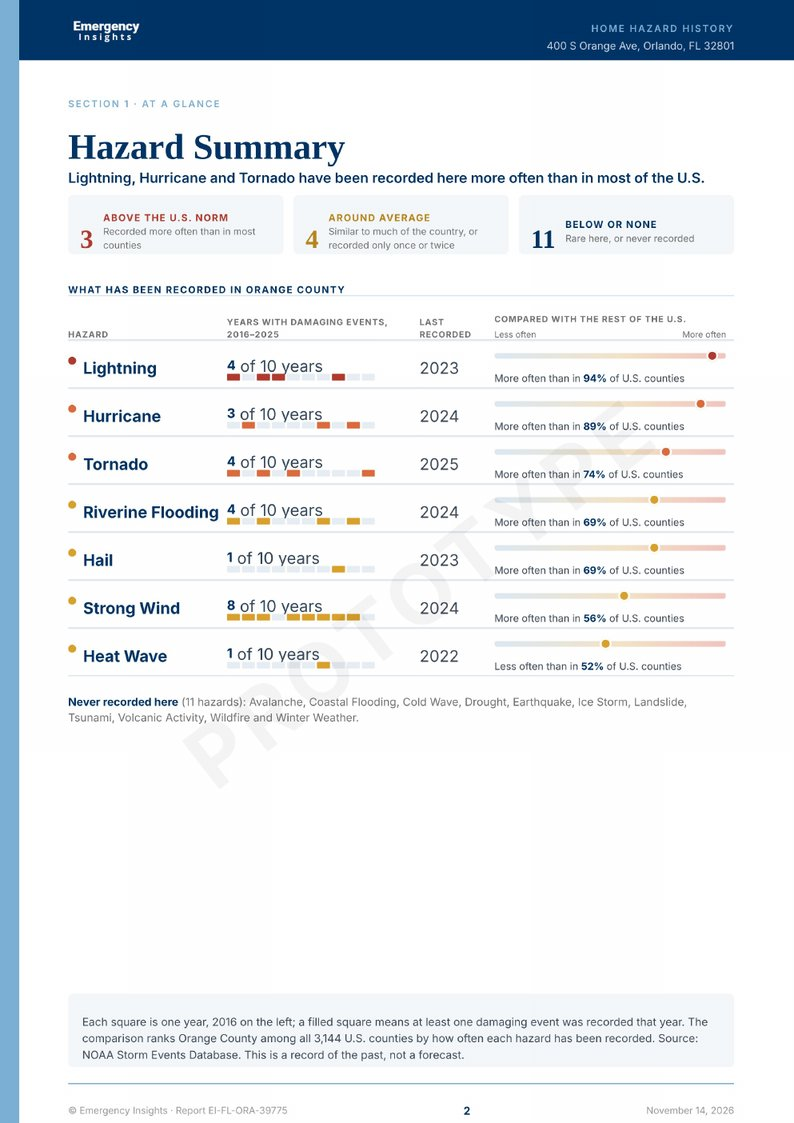
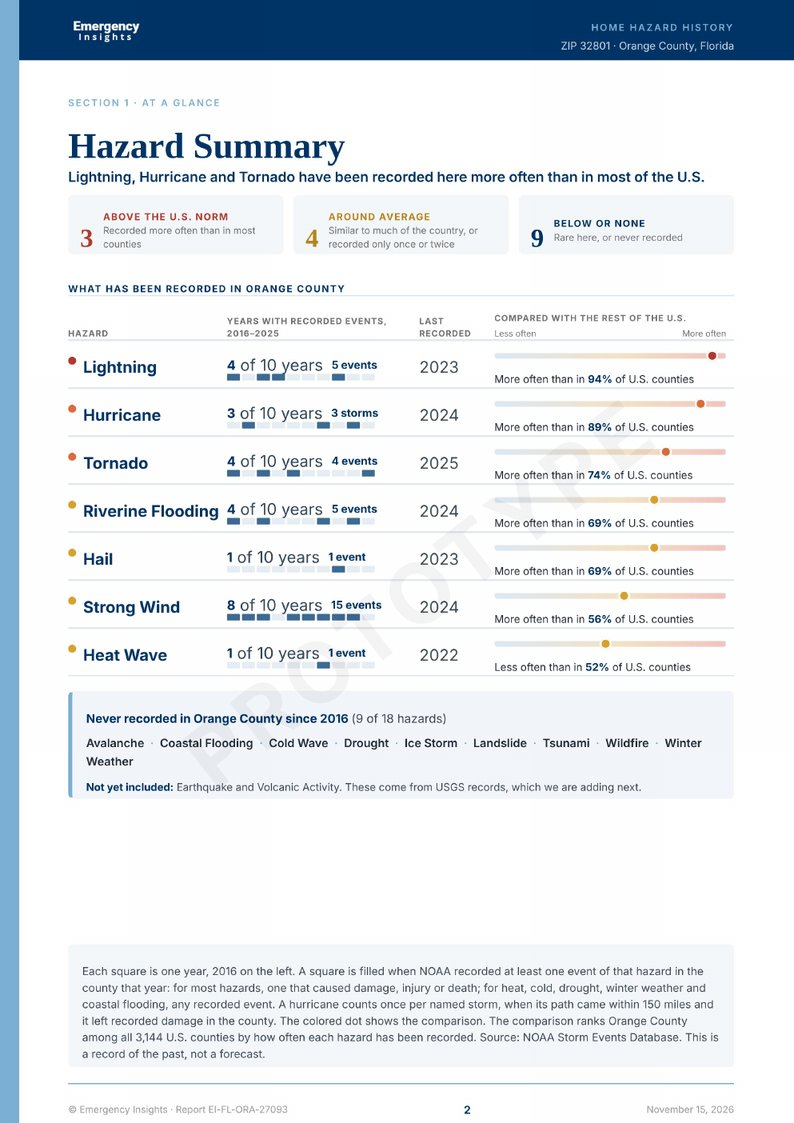
Two hazards per page, area summary in the preview, click-to-zoom pages, team photos, placeholder prices
Claude-Session: https://claude.ai/code/session_01FcMM3Sz8onKL1qbUcGDpZf

diff --git a/deploy/ei/index.html b/deploy/ei/index.html
@@ -152,6 +152,27 @@ td:first-child { color: var(--ink); font-weight: 600; }
 .addr-grid input, .addr-grid select { height: 50px; width: 100%; border: 1.5px solid #c3d3e1; border-radius: 10px; padding: 0 12px; font: inherit; font-size: 16px; color: var(--ink); background: var(--white); }
 .addr-grid input:focus, .addr-grid select:focus { outline: 3px solid rgba(0,51,102,0.25); border-color: var(--navy); }
 @media (max-width: 720px) { .addr-grid { grid-template-columns: 1fr 1fr; } .addr-grid .street { grid-column: 1 / -1; } .place-grid .f:last-child { grid-column: 1 / -1; } }
+.area-stats { display: grid; grid-template-columns: repeat(3, 1fr); gap: 12px; margin-top: 20px; }
+.area-stats div { background: var(--mist); border-radius: 10px; padding: 14px 16px; }
+.area-stats b { display: block; font-family: var(--display); font-size: 34px; color: var(--navy); line-height: 1.1; }
+.area-stats span { font-size: 14px; color: var(--body); }
+.area-never { margin-top: 18px; padding: 14px 16px; border-left: 4px solid var(--steel); background: #f6f9fc; border-radius: 0 10px 10px 0; }
+.area-never h3 { font-size: 16px; color: var(--navy); margin: 0 0 8px; }
+.area-never .chips { display: flex; flex-wrap: wrap; gap: 6px; }
+.area-never .chips span { font-size: 14px; font-weight: 600; color: var(--ink); background: var(--white); border: 1px solid var(--line); border-radius: 999px; padding: 3px 11px; }
+#flow-latest { margin-top: 14px; }
+.area-cta { margin-top: 22px; padding-top: 20px; border-top: 1px solid var(--line); display: flex; flex-direction: column; gap: 8px; }
+@media (max-width: 600px) { .area-stats { grid-template-columns: 1fr; } }
+/* click to zoom */
+.zoomable { cursor: zoom-in; }
+.zbox { position: fixed; inset: 0; z-index: 200; background: rgba(5, 20, 38, 0.92); display: flex; flex-direction: column; }
+.zbox-bar { display: flex; justify-content: space-between; align-items: center; gap: 12px; padding: 10px 16px; color: #fff; font-size: 15px; }
+.zbox-bar button { background: rgba(255,255,255,0.12); color: #fff; border: 0; border-radius: 8px; min-width: 44px; height: 44px; font: inherit; font-size: 18px; cursor: pointer; }
+.zbox-bar button:hover { background: rgba(255,255,255,0.22); }
+.zbox-stage { flex: 1; overflow: auto; display: flex; justify-content: center; align-items: flex-start; padding: 0 16px 24px; }
+.zbox-stage img { width: min(900px, 100%); height: auto; background: #fff; box-shadow: 0 10px 40px rgba(0,0,0,0.5); cursor: zoom-out; }
+.zbox-stage img.big { width: min(1600px, 220%); max-width: none; }
+.zbox-page { background: #fff; box-shadow: 0 10px 40px rgba(0,0,0,0.5); transform-origin: top left; }
 .proto-bar { background: #fff6e5; color: #5a4210; font-size: 14px; padding: 8px 0; border-bottom: 1px solid #f0dfbd; }
 .notice { background: #fff6e5; color: #5a4210; border-radius: 10px; padding: 14px 16px; font-size: 15px; }
 
@@ -177,6 +198,10 @@ td:first-child { color: var(--ink); font-weight: 600; }
 
 /* Team */
 .person { display: flex; flex-direction: column; gap: 6px; }
+.team4 { display: grid; grid-template-columns: repeat(4, 1fr); gap: 24px; }
+@media (max-width: 900px) { .team4 { grid-template-columns: repeat(2, 1fr); } }
+.avatar img { width: 100%; height: 100%; object-fit: cover; border-radius: 50%; }
+.avatar:has(img) { border: 0; overflow: hidden; }
 .avatar { width: 96px; height: 96px; border-radius: 50%; background: var(--mist); border: 1px dashed #b9cad9; display: flex; align-items: center; justify-content: center; font-size: 13px; color: var(--muted); margin-bottom: 8px; }
 
 /* Contact */
@@ -325,6 +350,10 @@ td:first-child { color: var(--ink); font-weight: 600; }
 .rp-ins { display: flex; gap: 14px; margin-top: 18px; padding: 14px 16px; background: #003366; color: #fff; border-radius: 5px; }
 .rp-ins .l { font-size: 9.5px; font-weight: 700; color: #7BAFD4; text-transform: uppercase; letter-spacing: 0.12em; white-space: nowrap; padding-top: 1px; }
 .rp-ins .t { font-size: 11.5px; line-height: 1.5; color: rgba(255,255,255,0.9); }
+.rp-block { display: flex; flex-direction: column; height: 468px; overflow: hidden; }
+.rp-block .rp-eyebrow { margin-bottom: 2px; }
+.rp-divide { border-top: 1px dashed #C9D7E4; margin: 4px 0 14px; }
+.rp-rule { font-size: 9.5px; color: #707070; margin-top: 8px; }
 .rp-bottomnote { font-size: 9.5px; color: #707070; line-height: 1.45; margin-top: auto; padding-top: 14px; margin-bottom: 14px; }
 .rp-ul { margin: 0; padding-left: 16px; font-size: 11.5px; color: #2B3B4C; line-height: 1.6; }
 .rp-tbl { width: 100%; border-collapse: collapse; min-width: 0; }
@@ -700,15 +729,24 @@ td:first-child { color: var(--ink); font-weight: 600; }
 
       <div id="flow-preview" class="stack-lg" hidden>
         <div class="row" style="justify-content: space-between;">
-          <h1 class="h2">Is this the right home?</h1>
+          <h1 class="h2">Is this the right area?</h1>
           <a href="#report" class="js-restart" style="font-weight: 600;">Change area</a>
         </div>
         <p class="notice" id="flow-notice">You searched for <b id="searched">your address</b>.</p>
-        <div class="split" style="align-items: stretch;">
+        <div class="split" style="align-items: flex-start;">
           <div class="panel" style="flex: 999 1 480px;">
-            <div class="map"><div><div class="pin"></div><p class="small">Satellite view of the property</p></div></div>
-            <div class="row" style="justify-content: space-between; margin-top: 8px;">
-              <div><p style="font-family: var(--head); font-size: 26px; font-weight: 800; letter-spacing: -0.02em; color: var(--ink);" id="flow-place">1250 Example Lane</p><p class="small" id="flow-sub">Orlando, FL 32817 · Orange County</p></div>
+            <p class="eyebrow">Your area</p>
+            <p style="font-family: var(--display); font-size: 32px; font-weight: 700; color: var(--navy); line-height: 1.1;" id="flow-place">ZIP code</p>
+            <p class="small" id="flow-sub" style="margin-top: 4px;">County, State</p>
+            <div class="area-stats" id="flow-stats"></div>
+            <div id="flow-never"></div>
+            <p class="small" id="flow-latest"></p>
+            <div class="area-cta">
+              <h2 class="h3" style="font-size: 22px;">Your full report</h2>
+              <p id="aud-line">Includes a <b>Know Before You Buy</b> page with a before-you-sign checklist.</p>
+              <div class="row" style="margin-top: 6px;"><button class="btn btn-primary" type="button" id="flow-pdf">Download the PDF report</button><a class="btn btn-outline js-waitlist" href="#contact">Join the waitlist</a></div>
+              <p class="small">Free while we test the prototype.</p>
+              <p class="small" id="flow-pdf-status" aria-live="polite"></p>
             </div>
           </div>
           <div class="preview" style="flex: 1 1 340px;">
@@ -718,20 +756,6 @@ td:first-child { color: var(--ink); font-weight: 600; }
             <p style="color: var(--on-navy);">The full report adds every hazard's history, when each one tends to hit, the major storms on record and a checklist.</p>
             <p class="small" style="color: var(--on-navy-muted);" id="flow-foot">Real NOAA records, ranked against every U.S. county.</p>
           </div>
-        </div>
-        <div class="panel mist" style="border: 0;">
-          <div class="split" style="align-items: center;">
-            <div class="stack">
-              <h2 class="h3" style="font-size: 24px;">Your full report</h2>
-              <p id="aud-line">Includes a <b>Know Before You Buy</b> page with a before-you-sign checklist.</p>
-              <p class="small">Free while we test the prototype.</p>
-            </div>
-            <div class="stack">
-              <button class="btn btn-primary" type="button" id="flow-pdf">Download the PDF report</button>
-              <a class="btn btn-outline js-waitlist" href="#contact">Join the waitlist</a>
-            </div>
-          </div>
-          <p class="small" id="flow-pdf-status" aria-live="polite" style="margin-top: 10px;"></p>
         </div>
         <div class="stack">
           <h2 class="h3" style="font-size: 24px;">Preview every page</h2>
@@ -749,16 +773,15 @@ td:first-child { color: var(--ink); font-weight: 600; }
       <div class="stack">
         <p class="eyebrow">Sample report</p>
         <h1 class="h2">Every page of a real report.</h1>
-        <p class="lead">This is the real report for Orlando City Hall (400 S Orange Ave), built from NOAA records for Orange County, 2016–2025.</p>
+        <p class="lead">This is the real report for ZIP code 32801 (downtown Orlando), built from NOAA and FEMA records for Orange County, 2016–2025. Click any page to enlarge it.</p>
       </div>
       <div class="pages">
         <figure><img class="shot" src="img/page1.jpg" alt="Cover page"><figcaption><b>1 · Cover</b>The address, report date and data sources.</figcaption></figure>
         <figure><img class="shot" src="img/page2.jpg" alt="Hazard summary page"><figcaption><b>2 · Hazard summary</b>All 18 hazards: how often each was recorded, and how that compares with the rest of the U.S.</figcaption></figure>
-        <figure><img class="shot" src="img/page3.jpg" alt="Property page"><figcaption><b>3 · This property</b>Flood zone, flood claims nearby, storms on record and a checklist.</figcaption></figure>
-        <figure><img class="shot" src="img/page4.jpg" alt="Lightning detail page"><figcaption><b>4 · Lightning</b>How often it was recorded, when it tends to hit, and what insurance usually covers.</figcaption></figure>
-        <figure><img class="shot" src="img/page5.jpg" alt="Hurricane detail page"><figcaption><b>5 · Hurricane</b>One page for each hazard that stands out, with the named storms.</figcaption></figure>
-        <figure><img class="shot" src="img/page6.jpg" alt="Tornado detail page"><figcaption><b>6 · Tornado</b>Same layout, so every hazard reads the same way.</figcaption></figure>
-        <figure><img class="shot" src="img/page7.jpg" alt="How this report works page"><figcaption><b>7 · How this report works</b>How each hazard is compared, data sources and limits.</figcaption></figure>
+        <figure><img class="shot" src="img/page3.jpg" alt="Property page"><figcaption><b>3 · This area</b>Federally declared disasters, major storms on record and a checklist.</figcaption></figure>
+        <figure><img class="shot" src="img/page4.jpg" alt="Hazard detail page for lightning and hurricane"><figcaption><b>4 · Lightning and Hurricane</b>Two hazards per page: how often each was recorded, when it tends to hit, named storms and insurance.</figcaption></figure>
+        <figure><img class="shot" src="img/page5.jpg" alt="Hazard detail page for tornado and other recorded hazards"><figcaption><b>5 · Tornado and other hazards</b>Same layout for every hazard that stands out, then the rest of what was recorded.</figcaption></figure>
+        <figure><img class="shot" src="img/page6.jpg" alt="How this report works page"><figcaption><b>6 · How this report works</b>How each hazard is compared, data sources and limits.</figcaption></figure>
       </div>
     </div>
   </div>
@@ -820,15 +843,16 @@ td:first-child { color: var(--ink); font-weight: 600; }
       <div class="grid2">
         <div class="panel">
           <h2 class="h3">Single report</h2>
-          <p class="price">[YOUR PRICE]</p>
+          <p class="price">$19</p>
           <p>One address, full PDF, yours to share with the client.</p>
         </div>
         <div class="panel" style="box-shadow: inset 0 0 0 2px var(--navy);">
           <h2 class="h3">Professional</h2>
-          <p class="price">[YOUR PRICE] <small>/ month</small></p>
-          <p>Reports for every client, branded with your business.</p>
+          <p class="price">$49 <small>/ month</small></p>
+          <p>Up to 25 reports a month, branded with your business.</p>
         </div>
       </div>
+      <p class="small">Prices are placeholders while we test the prototype.</p>
       <div class="row"><a class="btn btn-primary js-waitlist" href="#contact">Join the waitlist</a><a class="btn btn-outline" href="#contact">Talk to us</a></div>
     </div>
   </div>
@@ -852,10 +876,11 @@ td:first-child { color: var(--ink); font-weight: 600; }
   <div class="band pad">
     <div class="wrap stack-lg">
       <h2 class="h2">The team</h2>
-      <div class="grid3">
-        <div class="person"><div class="avatar">[PHOTO]</div><h3 class="h3">Javier Rocha</h3><p class="small">Co-founder · website and reports</p><p>[ONE LINE ABOUT YOU]</p></div>
-        <div class="person"><div class="avatar">[PHOTO]</div><h3 class="h3">[NAME]</h3><p class="small">[ROLE]</p><p>[ONE LINE]</p></div>
-        <div class="person"><div class="avatar">[PHOTO]</div><h3 class="h3">[NAME]</h3><p class="small">[ROLE]</p><p>[ONE LINE]</p></div>
+      <div class="team4">
+        <div class="person"><div class="avatar"><img src="img/ArefA.jpg" alt="Aref Abdala"></div><h3 class="h3">Aref Abdala</h3><p class="small">Technical Lead & Data Specialist</p></div>
+        <div class="person"><div class="avatar"><img src="img/SoniaA.jpg" alt="Sonia Alvarez"></div><h3 class="h3">Sonia Alvarez</h3><p class="small">Management & Communication Lead</p></div>
+        <div class="person"><div class="avatar"><img src="img/JavierA.jpg" alt="Javier Arocha"></div><h3 class="h3">Javier Arocha</h3><p class="small">Website Development & Data Delivery Lead</p></div>
+        <div class="person"><div class="avatar"><img src="img/JulioW.jpg" alt="Julio Wall"></div><h3 class="h3">Julio Wall</h3><p class="small">Administration & Operations Lead</p></div>
       </div>
     </div>
   </div>

diff --git a/deploy/ei/lab.js b/deploy/ei/lab.js
@@ -374,23 +374,42 @@
       <div class="rp-label">${esc(d.page3.checklist_title)}</div><div class="rp-checks">${checks}</div></div>` + footer(d, 3));
   }
 
-  function pageDetail(d, h, i, n, pageNum) {
+  // One hazard, sized to fill half a page; two per page keeps the report compact
+  function detailBlock(d, h, i, n) {
     const ys = Object.keys(h.events_by_year), vs = ys.map(y => h.events_by_year[y]);
-    const yearly = barChart(ys, vs, 300, 95, { labelPeaksOnly: ys.length > 12, tick: (k, y) => ys.length > 12 ? (Number(y) % 5 === 0 || k === 0 || k === ys.length - 1) : true });
-    const monthly = barChart(MONTHS, h.events_by_month, 300, 95, { tick: () => true });
+    const yearly = barChart(ys, vs, 300, 78, { labelPeaksOnly: ys.length > 12, tick: (k, y) => ys.length > 12 ? (Number(y) % 5 === 0 || k === 0 || k === ys.length - 1) : true });
+    const monthly = barChart(MONTHS, h.events_by_month, 300, 78, { tick: () => true });
     const det = DETAIL[h.id] || { what: '[Detail text for this hazard is not written yet.]', ins: 'Confirm coverage for this hazard with a licensed agent.' };
-    const storms = d.storms.filter(s => s.hazards.includes(h.name));
+    const storms = d.storms.filter(s => s.hazards.includes(h.name)).slice(0, 3);
     const color = tierColor(h.tier_key);
-    return shell(header(d) + `<div class="rp-body"><div class="rp-eyebrow">Section 2 · Hazard detail ${i} of ${n}</div>
-      <div class="rp-titlerow"><h1 class="rp-h1" style="font-size:42px;">${h.name}</h1><div class="rp-rating"><div class="tr" style="color:${color}">${h.tier}</div><div class="sc">${h.rank_line}</div></div></div>
-      <p class="rp-lead">${esc(det.what)}</p>
-      <div class="rp-facts" style="--b:${color}"><div class="rp-fact"><div class="l">Compared with the U.S.</div><div class="v">${h.rank_line}</div></div><div class="rp-fact"><div class="l">History</div><div class="v">${h.history_line}</div></div><div class="rp-fact"><div class="l">Peak season</div><div class="v">${h.season}</div></div><div class="rp-fact"><div class="l">Severity</div><div class="v">${h.severity_line}</div></div></div>
-      <div class="rp-label">What has happened in ${esc(d.property.county)}</div>
-      <div class="rp-charts"><div class="rp-chart"><div class="rp-chart-t">${h.events_total} recorded ${unitOf(h.id, h.events_total)}, ${ys[0]}–${ys[ys.length - 1]}</div><div class="rp-chart-s">Events per year</div>${yearly}</div><div class="rp-chart"><div class="rp-chart-t">Most events fall in ${h.season.split(' (')[0]}</div><div class="rp-chart-s">Events by month, all years combined</div>${monthly}</div></div>
-      ${storms.length ? `<div class="rp-label">Named storms on record</div><table class="rp-events">${storms.map(s => `<tr><td>${s.date}</td><td class="n">${s.name}</td><td>${s.summary}</td></tr>`).join('')}</table>` : ''}
-      <div class="rp-ins"><div class="l">Insurance</div><div class="t">${esc(det.ins)}</div></div>
+    return `<div class="rp-block"><div class="rp-eyebrow">Hazard detail ${i} of ${n}</div>
+      <div class="rp-titlerow"><h2 class="rp-h1" style="font-size:30px;">${h.name}</h2><div class="rp-rating"><div class="tr" style="color:${color};font-size:24px;">${h.tier}</div><div class="sc">${h.rank_line}</div></div></div>
+      <p class="rp-lead" style="font-size:12.5px;margin-top:6px;">${esc(det.what)}</p>
+      <div class="rp-facts" style="--b:${color};margin-top:10px;"><div class="rp-fact"><div class="l">Compared with the U.S.</div><div class="v">${h.rank_line}</div></div><div class="rp-fact"><div class="l">History</div><div class="v">${h.history_line}</div></div><div class="rp-fact"><div class="l">Peak season</div><div class="v">${h.season}</div></div><div class="rp-fact"><div class="l">Severity</div><div class="v">${h.severity_line}</div></div></div>
+      <div class="rp-charts" style="margin-top:12px;"><div class="rp-chart"><div class="rp-chart-t">${h.events_total} recorded ${unitOf(h.id, h.events_total)}, ${ys[0]}–${ys[ys.length - 1]}</div><div class="rp-chart-s">Per year in ${esc(d.property.county)}</div>${yearly}</div><div class="rp-chart"><div class="rp-chart-t">Most fall in ${h.season.split(' (')[0]}</div><div class="rp-chart-s">By month, all years combined</div>${monthly}</div></div>
+      ${storms.length ? `<table class="rp-events" style="margin-top:8px;">${storms.map(s => `<tr><td>${s.date}</td><td class="n">${s.name}</td><td>${s.summary}</td></tr>`).join('')}</table>` : ''}
+      <div class="rp-ins" style="margin-top:10px;padding:10px 14px;"><div class="l">Insurance</div><div class="t">${esc(det.ins)}</div></div>
+      <p class="rp-rule">${countRule(h.id, esc(d.property.county))}.</p></div>`;
+  }
+  // The rest of the recorded hazards, for a half page that would otherwise stay empty
+  function otherBlock(d) {
+    const others = d.hazards.filter(h => h.group !== 'above' && !h.not_included && h.years_with_event > 0);
+    if (!others.length) return '';
+    const last = Number(Object.keys(d.hazards[0].events_by_year).slice(-1)[0]);
+    const rows = others.slice(0, 8).map(h => {
+      const yrs = []; for (let y = last - h.window_years + 1; y <= last; y++) yrs.push(y);
+      const sq = 10;
+      const strip = `<svg width="${yrs.length * 12 - 2}" height="7" style="display:block">` + yrs.map((y, k) => `<rect x="${k * 12}" width="${sq}" height="7" rx="1" fill="${(h.events_by_year[y] || 0) > 0 ? '#3D6A93' : '#E6EDF3'}"/>`).join('') + `</svg>`;
+      return `<tr><td class="hz"><span class="dot" style="background:${tierColor(h.tier_key)}"></span>${h.name}</td><td class="yr"><div><b>${h.years_with_event}</b> of ${h.window_years} years <span class="ev">${h.events_total} ${unitOf(h.id, h.events_total)}</span></div></td><td class="cm"><div class="t">${h.percentile >= 50 ? `More often than in <b>${h.percentile}%</b> of U.S. counties` : `Less often than in <b>${100 - h.percentile}%</b> of U.S. counties`}</div><div class="t">Peak: ${h.season.split(' (')[0]}</div></td></tr>`;
+    }).join('');
+    return `<div class="rp-block"><div class="rp-eyebrow">Also recorded here</div><h2 class="rp-h1" style="font-size:26px;">Other hazards on record</h2>
+      <p class="rp-lead" style="font-size:12.5px;margin-top:6px;">These were recorded in ${esc(d.property.county)} but not more often than in most of the country. Their full history is summarized on page 2.</p>
+      <table class="rp-sum" style="margin-top:10px;"><tbody>${rows}</tbody></table></div>`;
+  }
+  function pageDetails(d, blocks, pageNum) {
+    return shell(header(d) + `<div class="rp-body"><div class="rp-eyebrow" style="margin-bottom:6px;">Section 2 · Hazards that stand out</div>${blocks.join('<div class="rp-divide"></div>')}
       <p class="rp-bottomnote">${d.report.real_data
-        ? `Source: NOAA Storm Events Database, ${FIRST_YEAR}–${END_YEAR}${h.id === 'hurricane' ? ', matched to NOAA hurricane tracks' : ''}. ${countRule(h.id, esc(d.property.county))}. Prototype: methods are still being refined. This describes the past and is not a forecast.`
+        ? `Source: NOAA Storm Events Database, ${FIRST_YEAR}–${END_YEAR}; hurricanes matched to NOAA hurricane tracks (IBTrACS). Prototype: methods are still being refined. This describes the past and is not a forecast.`
         : `Events are made-up sample data for testing the layout. In the real report they come from NOAA's Storm Events Database for ${esc(d.property.county)}, ${FIRST_YEAR}–${END_YEAR}. This describes the past and is not a forecast.`}</p></div>` + footer(d, pageNum));
   }
 
@@ -409,8 +428,10 @@
   function stepTemplates(d) {
     const pages = [pageCover(d), pageSummary(d), pageProperty(d)];
     const det = d.hazards.filter(h => d.detail_pages.includes(h.id));
-    det.forEach((h, i) => pages.push(pageDetail(d, h, i + 1, det.length, 4 + i)));
-    pages.push(pageClosing(d, 4 + det.length));
+    const blocks = det.map((h, i) => detailBlock(d, h, i + 1, det.length));
+    if (blocks.length % 2 === 1 || !blocks.length) { const o = otherBlock(d); if (o) blocks.push(o); }
+    for (let k = 0; k < blocks.length; k += 2) pages.push(pageDetails(d, blocks.slice(k, k + 2), pages.length + 1));
+    pages.push(pageClosing(d, pages.length + 1));
     return pages;
   }
 

diff --git a/deploy/ei/site.js b/deploy/ei/site.js
@@ -79,6 +79,18 @@
       ? `You searched for ZIP code <b>${esc2(loc.zip_area)}</b> in ${esc2(loc.state_name)}. This report covers <b>${esc2(loc.county)}</b>.${loc.zip_note ? esc2(loc.zip_note) : ''}`
       : `This report covers <b>${esc2(loc.county)}</b>, ${esc2(loc.state_name)}.`;
     document.getElementById('flow-place').textContent = loc.zip_area ? `ZIP code ${loc.zip_area}` : loc.county;
+    // area summary on the left
+    const decl = data.declarations || [];
+    const nAbove = data.hazards.filter(h => h.group === 'above').length;
+    document.getElementById('flow-stats').innerHTML =
+      `<div><b>${nAbove}</b><span>hazard${nAbove === 1 ? '' : 's'} recorded more often than in most of the U.S.</span></div>` +
+      `<div><b>${decl.length}</b><span>federal disaster declaration${decl.length === 1 ? '' : 's'} since 2016</span></div>` +
+      `<div><b>${data.storms.length}</b><span>named storm${data.storms.length === 1 ? '' : 's'} with recorded damage since 2016</span></div>`;
+    const never = data.hazards.filter(h => !h.not_included && h.years_with_event === 0);
+    document.getElementById('flow-never').innerHTML = never.length
+      ? `<div class="area-never"><h3>Never recorded here since 2016 (${never.length} of ${data.hazards.length})</h3><div class="chips">${never.map(h => `<span>${esc2(h.name)}</span>`).join('')}</div></div>` : '';
+    document.getElementById('flow-latest').innerHTML = decl.length
+      ? `Most recent federal declaration: <b>${esc2(decl[0].title)}</b>, ${new Date(decl[0].date + 'T12:00:00').toLocaleDateString('en-US', { month: 'long', year: 'numeric' })} (${esc2(decl[0].code)}).` : '';
     document.getElementById('flow-sub').textContent = `${loc.county}, ${loc.state_name}`;
     const above = data.hazards.filter(h => h.group === 'above');
     document.getElementById('flow-head').textContent = above.length
@@ -86,7 +98,7 @@
       : 'No hazard stands out in this area';
     const list = (above.length ? above : data.hazards.filter(h => !h.not_included && h.years_with_event > 0).slice(0, 3)).slice(0, 5);
     document.getElementById('flow-items').innerHTML = list.map(h =>
-      `<div class="item"><b>${esc2(h.name)}</b><span style="text-align: right;"><span style="font-weight: 700;">${h.years_with_event} of ${h.window_years} years</span><small style="display: block; font-size: 13px; color: var(--on-navy-muted);"><i style="display: inline-block; width: 8px; height: 8px; border-radius: 50%; background: ${tierTint[h.tier_key] || '#a9cbe6'}; margin-right: 6px;"></i>more often than ${h.percentile}% of U.S. counties</small></span></div>`).join('');
+      `<div class="item" style="display: block; padding-block: 10px;"><div style="display: flex; justify-content: space-between; gap: 10px;"><b>${esc2(h.name)}</b><span style="font-weight: 700; white-space: nowrap;">${h.years_with_event} of ${h.window_years} years</span></div><small style="display: block; font-size: 13px; color: var(--on-navy-muted); margin-top: 2px;"><i style="display: inline-block; width: 8px; height: 8px; border-radius: 50%; background: ${tierTint[h.tier_key] || '#a9cbe6'}; margin-right: 6px;"></i>more often than ${h.percentile}% of U.S. counties</small></div>`).join('');
     const nDecl = (data.declarations || []).length;
     document.getElementById('flow-foot').textContent = `Real NOAA records for ${loc.county}, 2016–2025, compared with every U.S. county. ${nDecl ? `Plus every federal disaster declared for the county since 2016 (${nDecl} FEMA declaration${nDecl === 1 ? '' : 's'}).` : 'No federal disaster declarations since 2016.'}`;
     document.getElementById('aud-line').innerHTML = audLines[aud];
@@ -143,4 +155,56 @@
 
   window.addEventListener('hashchange', () => show(location.hash.slice(1), true));
   show(location.hash.slice(1), false);
+})();
+
+// ---- Click to zoom: sample page images and report preview pages ----
+(function () {
+  let list = [], idx = 0, box = null;
+  function items() {
+    const view = document.querySelector('section[data-view]:not([hidden])');
+    if (!view) return [];
+    return [...view.querySelectorAll('img.shot, .shot-card img, #flow-preview-pages .rp-scale, .pages figure img')]
+      .filter((el, i, a) => a.indexOf(el) === i);
+  }
+  function show() {
+    const el = list[idx], stage = box.querySelector('.zbox-stage');
+    stage.innerHTML = '';
+    if (el.tagName === 'IMG') {
+      const img = document.createElement('img'); img.src = el.currentSrc || el.src; img.alt = el.alt || '';
+      img.addEventListener('click', () => img.classList.toggle('big'));
+      stage.appendChild(img);
+    } else {
+      const page = el.firstElementChild.cloneNode(true);
+      const w = Math.min(900, stage.clientWidth - 32), sc = w / 794;
+      page.style.transform = `scale(${sc})`;
+      const wrap = document.createElement('div'); wrap.style.width = (794 * sc) + 'px'; wrap.style.height = (1123 * sc) + 'px';
+      page.classList.add('zbox-page'); wrap.appendChild(page); stage.appendChild(wrap);
+    }
+    box.querySelector('.zbox-count').textContent = `Page ${idx + 1} of ${list.length}`;
+    stage.scrollTop = 0;
+  }
+  function open(el) {
+    list = items(); idx = Math.max(0, list.indexOf(el));
+    box = document.createElement('div'); box.className = 'zbox'; box.setAttribute('role', 'dialog'); box.setAttribute('aria-modal', 'true'); box.setAttribute('aria-label', 'Report page');
+    box.innerHTML = '<div class="zbox-bar"><span class="zbox-count"></span><span><button type="button" class="zbox-prev" aria-label="Previous page">‹</button> <button type="button" class="zbox-next" aria-label="Next page">›</button> <button type="button" class="zbox-close" aria-label="Close">✕</button></span></div><div class="zbox-stage"></div>';
+    document.body.appendChild(box); document.body.style.overflow = 'hidden';
+    box.querySelector('.zbox-prev').onclick = () => { idx = (idx - 1 + list.length) % list.length; show(); };
+    box.querySelector('.zbox-next').onclick = () => { idx = (idx + 1) % list.length; show(); };
+    box.querySelector('.zbox-close').onclick = close;
+    box.querySelector('.zbox-stage').addEventListener('click', e => { if (e.target.classList.contains('zbox-stage')) close(); });
+    show(); box.querySelector('.zbox-close').focus();
+  }
+  function close() { if (box) { box.remove(); box = null; document.body.style.overflow = ''; } }
+  document.addEventListener('keydown', e => {
+    if (!box) return;
+    if (e.key === 'Escape') close();
+    if (e.key === 'ArrowRight') box.querySelector('.zbox-next').click();
+    if (e.key === 'ArrowLeft') box.querySelector('.zbox-prev').click();
+  });
+  document.addEventListener('click', e => {
+    const el = e.target.closest('img.shot, .shot-card img, #flow-preview-pages .rp-scale, .pages figure img');
+    if (el && !box) { e.preventDefault(); open(el); }
+  });
+  const mark = () => document.querySelectorAll('img.shot, .shot-card img, #flow-preview-pages .rp-scale').forEach(el => { el.classList.add('zoomable'); el.title = 'Click to enlarge'; });
+  mark(); new MutationObserver(mark).observe(document.getElementById('flow-preview-pages') || document.body, { childList: true });
 })();
